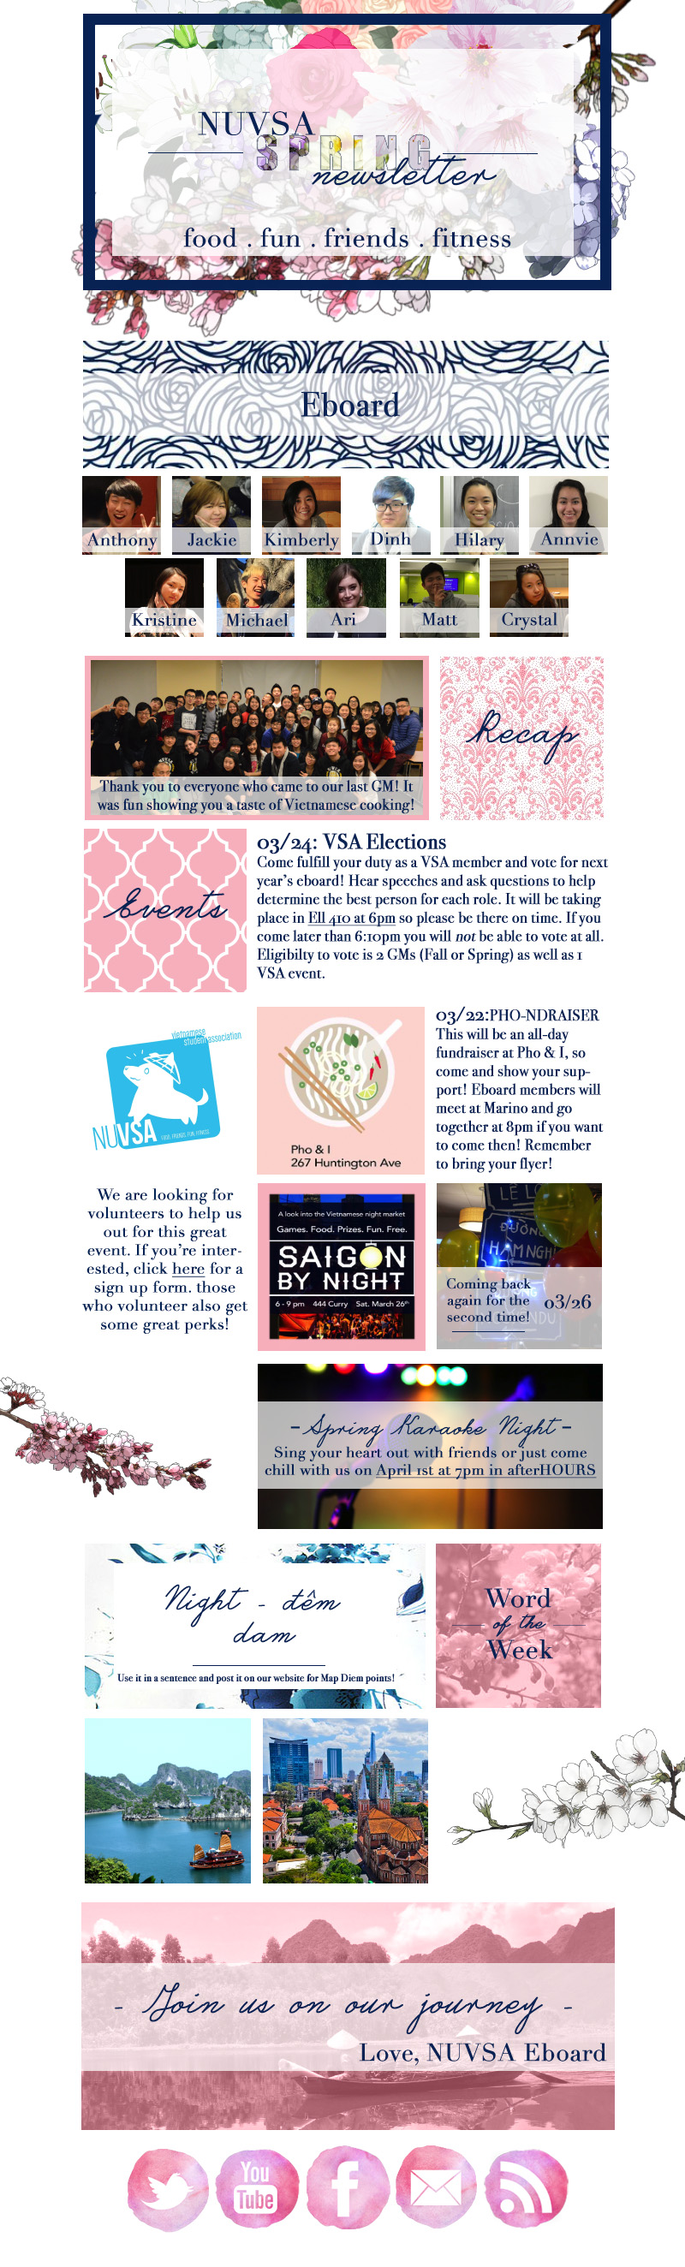
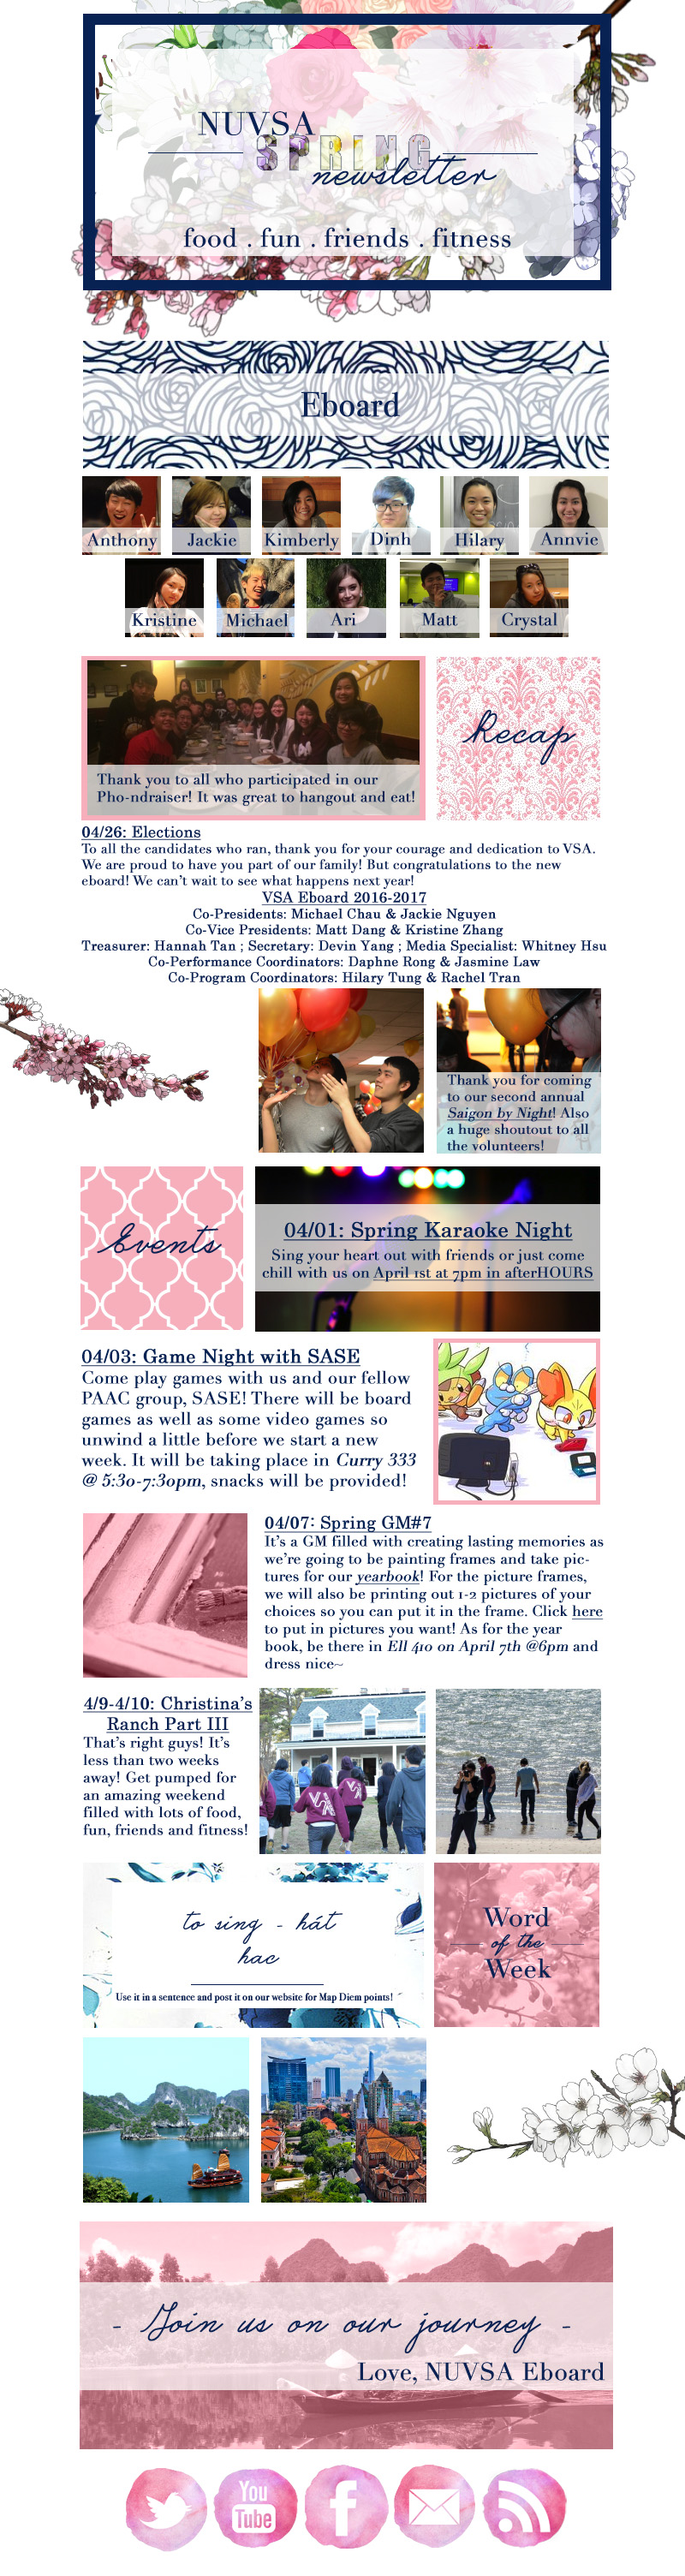
updated current newsletter

diff --git a/index.html b/index.html
@@ -54,23 +54,24 @@
     <!-- Matt was here LOL -->
     <!-- ...mmmm check out dat source -->
     <div id="newsletter-container">
-      <img id="newsletter" src="images/springNewsletter.jpg" border="0" width="800" height="2648" orgWidth="800" orgHeight="2648" usemap="#map" alt="" />
+      <img id="newsletter" src="images/springNewsletter.jpg" border="0" width="800" height="3008" orgWidth="800" orgHeight="3008" usemap="#map" alt="" />
       <!--<canvas id="centipede-container" width="400" height="1000" style="position:absolute;z-index:1;border:1px solid black;">Your browser does not support the HTML5 canvas tag.</canvas>-->
     </div>
     <map name="map" id="newsletterMap">
-      <area  alt="" title="???" href="javascript:rickRoll()" shape="rect" coords="96,556,188,648" style="outline:none;" target="_self"     />
-      <area  alt="" title="VSA Elections!!" href="https://www.facebook.com/events/1522619234714597/" shape="rect" coords="359,1062,465,1084" style="outline:none;" target="_self"     />
-      <area  alt="" title="VSA Pho-ndraiser!!" href="https://www.facebook.com/events/192153894495111/" shape="rect" coords="299,1174,704,1371" style="outline:none;" target="_self"     />
-      <area  alt="" title="Saigon By Night!!" href="https://www.facebook.com/events/1123410024345118/" shape="rect" coords="299,1380,704,1577" style="outline:none;" target="_self"     />
-      <area  alt="" title="SBN Volunteer Sign-Up Form" href="https://docs.google.com/forms/d/1H6Wds-YY8Q7jHSq42ZbEsH-LGFDxFoQY0yugx57poXM/viewform?c=0&w=1" shape="rect" coords="194,1469,244,1499" style="outline:none;" target="_self"     />
-      <area  alt="" title="VSA Spring Karaoke Night!!" href="https://www.facebook.com/events/100372350363649/" shape="rect" coords="300,1592,705,1786" style="outline:none;" target="_self"     />
-      <area  alt="" title="Word of the Week" href="http://www.vsa.neu.edu/#cboxdiv" shape="rect" coords="96,1801,703,1995" style="outline:none;" target="_self"     />
-      <area  alt="" title="NUVSA Twitter" href="https://twitter.com/nuvsa" shape="rect" coords="149,2510,244,2605" style="outline:none;" target="_self"     />
-      <area  alt="" title="NUVSA YouTube" href="https://www.youtube.com/user/NUVSA" shape="rect" coords="254,2510,349,2605" style="outline:none;" target="_self"     />
-      <area  alt="" title="NUVSA Facebook" href="https://www.facebook.com/groups/NUVSA/" shape="rect" coords="358,2508,453,2603" style="outline:none;" target="_self"     />
-      <area  alt="" title="Send us an email!" href="mailto:thenuvsaeboard@gmail.com" shape="rect" coords="462,2507,557,2602" style="outline:none;" target="_self"     />
-      <area  alt="" title="NUVSA Website" href="http://www.vsa.neu.edu/" shape="rect" coords="567,2509,662,2604" style="outline:none;" target="_self"     />
-      <area shape="rect" coords="798,2646,800,2648" alt="Image Map" style="outline:none;" title="Image Map" href="http://www.image-maps.com/index.php?aff=mapped_users_0" />
+      <area  alt="" title="Anthony?????" href="javascript:rickRoll()" shape="rect" coords="95,555,188,649" style="outline:none;" target="_self"     />
+      <area  alt="" title="VSA Pho-ndraiser 2016" href="https://www.facebook.com/neuvsa79/media_set?set=a.566694496819659.1073741980.100004373404728&type=3" shape="rect" coords="93,766,499,958" style="outline:none;" target="_self"     />
+      <area  alt="" title="VSA Spring Karaoke Night!!" href="https://www.facebook.com/events/100372350363649/" shape="rect" coords="297,1362,701,1556" style="outline:none;" target="_self"     />
+      <area  alt="" title="SASE & VSA Game Night!!" href="https://www.facebook.com/events/1035651216500517/" shape="rect" coords="92,1561,703,1758" style="outline:none;" target="_self"     />
+      <area  alt="" title="Upload your photo here!" href="https://script.google.com/macros/s/AKfycbypPUwmMLHdP940r8zCaXx97z-91r1V0_ijhkB0lpkoeIXpOpg/exec" shape="rect" coords="665,1871,707,1895" style="outline:none;" target="_self"     />
+      <area  alt="" title="VSA Final GM!!" href="https://www.facebook.com/events/247222498955224/" shape="rect" coords="451,1911,666,1935" style="outline:none;" target="_self"     />
+      <area  alt="" title="Christina's Ranch Part III" href="https://www.facebook.com/events/967250303370889/" shape="rect" coords="92,1971,703,2166" style="outline:none;" target="_self"     />
+      <area  alt="" title="Word of the Week" href="http://www.vsa.neu.edu/#cboxdiv" shape="rect" coords="96,2174,701,2368" style="outline:none;" target="_self"     />
+      <area  alt="" title="NUVSA Facebook" href="https://www.facebook.com/groups/NUVSA/" shape="rect" coords="357,2878,454,2976" style="outline:none;" target="_self"     />
+      <area  alt="" title="NUVSA Twitter" href="https://twitter.com/nuvsa" shape="rect" coords="146,2881,243,2979" style="outline:none;" target="_self"     />
+      <area  alt="" title="NUVSA YouTube" href="https://www.youtube.com/user/NUVSA" shape="rect" coords="250,2883,347,2974" style="outline:none;" target="_self"     />
+      <area  alt="" title="Send us an email!" href="mailto:thenuvsaeboard@gmail.com" shape="rect" coords="460,2878,554,2974" style="outline:none;" target="_self"     />
+      <area  alt="" title="NUVSA Website" href="http://www.vsa.neu.edu/" shape="rect" coords="564,2883,661,2974" style="outline:none;" target="_self"     />
+      <area shape="rect" coords="798,3006,800,3008" alt="Image Map" style="outline:none;" title="Image Map" href="http://www.image-maps.com/index.php?aff=mapped_users_0" />
     </map>
   </body>
   <script>
